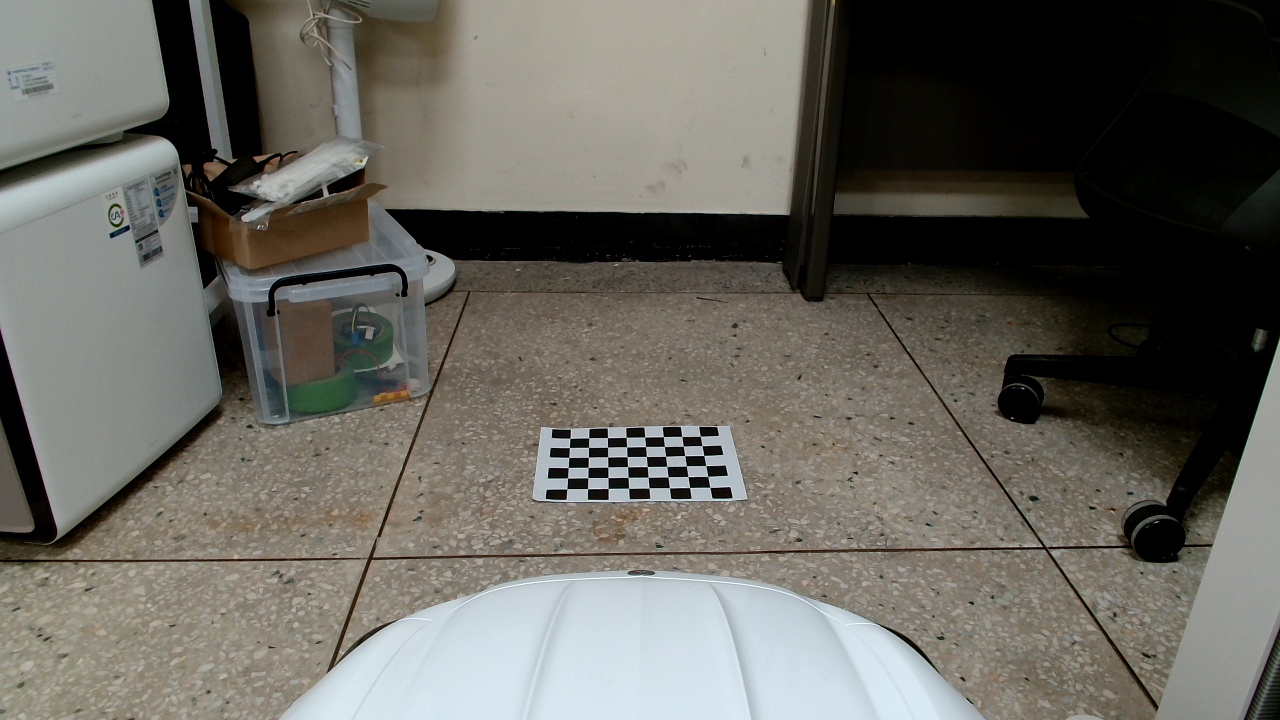
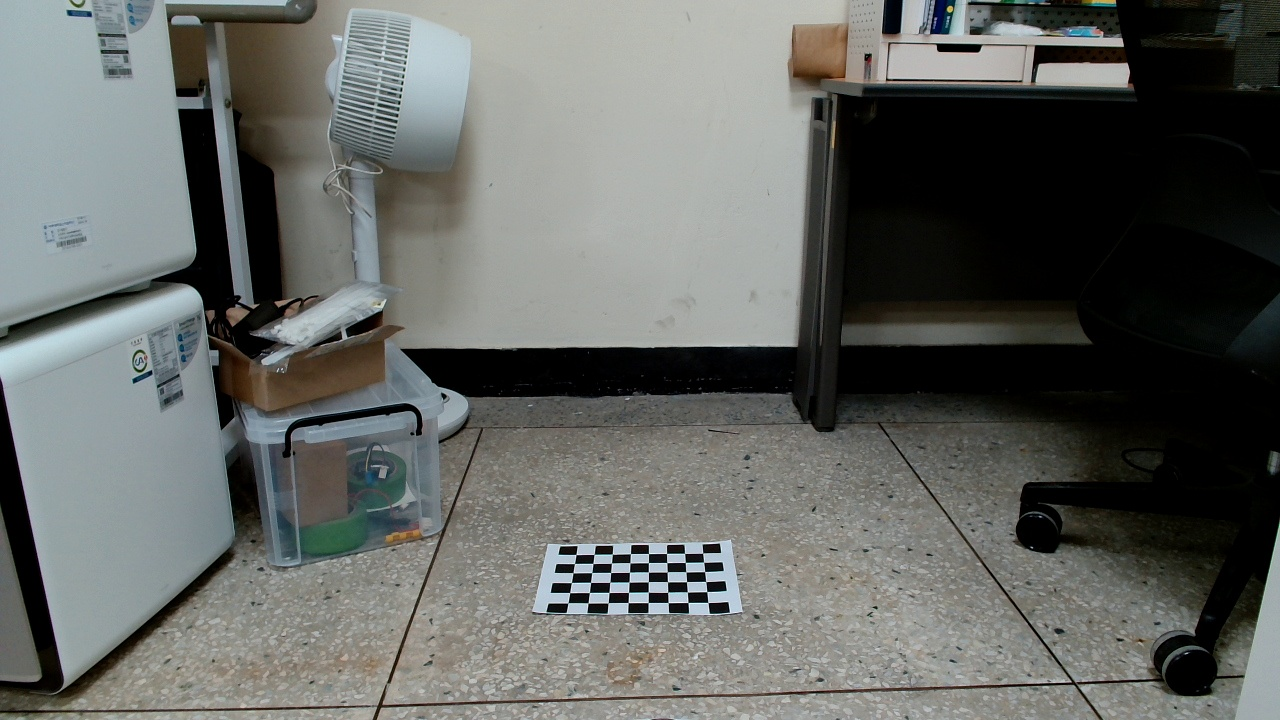
0120

diff --git a/lane_detection/scripts/run2.py b/lane_detection/scripts/run2.py
@@ -1,0 +1,253 @@
+#!/usr/bin/env python3
+import rospy
+import cv2
+import numpy as np
+import math
+from sensor_msgs.msg import Image
+from std_msgs.msg import Int16 
+from cv_bridge import CvBridge, CvBridgeError
+from sklearn.cluster import DBSCAN
+from collections import deque  # [추가] 큐(Queue) 자료구조 사용
+
+# ==========================================
+# 설정 변수
+# ==========================================
+IMAGE_TOPIC = "/usb_cam/image_raw" 
+
+# ==========================================
+# 기존 알고리즘 함수 (유지)
+# ==========================================
+def calculate_midpoint_score(x1, x2, w):
+    hw = w/2
+    midpoint = int((x1 + x2) / 2)
+    return (midpoint - hw) / hw * 100
+
+def calculate_line_score(x1, y1, x2, y2):
+    if x2 - x1 == 0: return 0.0
+    slope = (y2 - y1) / (x2 - x1)
+    abs_slope = abs(slope)
+    if abs_slope < 0.3: return 0.0
+    theta_deg = math.degrees(math.atan(abs_slope))
+    min_theta = math.degrees(math.atan(0.3))
+    max_theta = 90.0
+    if theta_deg >= max_theta: score_magnitude = 0.0
+    elif theta_deg <= min_theta: score_magnitude = 100.0
+    else: score_magnitude = 100 * (max_theta - theta_deg) / (max_theta - min_theta)
+    return score_magnitude if slope > 0 else -score_magnitude
+
+def average_lines(lines):
+    if not lines: return None
+    lines_array = np.array(lines)
+    averaged_line = np.mean(lines_array, axis=0)
+    return averaged_line.astype(int)
+
+# ==========================================
+# Lane Detector Class
+# ==========================================
+class LaneDetector:
+    def __init__(self):
+        rospy.init_node('canny_lane_detector', anonymous=True)
+        
+        output_topic_name = rospy.get_param("~output_topic", "des_steer")
+        self.pub_steer = rospy.Publisher(output_topic_name, Int16, queue_size=10)
+        
+        self.bridge = CvBridge()
+        self.image_sub = rospy.Subscriber(IMAGE_TOPIC, Image, self.image_callback)
+        
+        # [변경] Low Pass Filter 설정을 이동 평균(Moving Average) 방식으로 변경
+        # window_size가 클수록 부드럽지만 반응이 느려짐 (보통 5~10 추천)
+        self.window_size = 15
+        self.steer_history = deque(maxlen=self.window_size)
+        
+        print(f"Waiting for image topic: {IMAGE_TOPIC}...")
+        print(f"Publishing steering to: {output_topic_name} (Method: Moving Average)")
+
+    def filter_by_dbscan(self, lines, img_height):
+        if not lines or len(lines) < 2: return lines
+        
+        features = []
+        valid_indices = []
+        for i, line in enumerate(lines):
+            x1, y1, x2, y2 = line
+            if x2 - x1 == 0: continue
+            slope = (y2 - y1) / (x2 - x1)
+            if abs(slope) < 1e-2: continue
+            angle = math.atan(slope)
+            x_bottom = (img_height - y1) / slope + x1
+            features.append([angle, x_bottom])
+            valid_indices.append(i)
+            
+        if not features: return lines
+
+        features = np.array(features)
+        
+        # DBSCAN 파라미터
+        weight_angle = 100.0  
+        weight_dist  = 0.20   
+        
+        features_scaled = np.column_stack((
+            features[:, 0] * weight_angle, 
+            features[:, 1] * weight_dist   
+        ))
+
+        db = DBSCAN(eps=25.0, min_samples=2).fit(features_scaled)
+        
+        labels = db.labels_
+        unique_labels = set(labels)
+        if -1 in unique_labels: unique_labels.remove(-1)
+        if not unique_labels: return [] 
+
+        best_label = -1
+        max_count = 0
+        for label in unique_labels:
+            count = np.sum(labels == label)
+            if count > max_count:
+                max_count = count
+                best_label = label
+        
+        filtered_lines = []
+        for i, label in enumerate(labels):
+            if label == best_label:
+                filtered_lines.append(lines[valid_indices[i]])
+        return filtered_lines
+
+    def image_callback(self, msg):
+        try:
+            frame = self.bridge.imgmsg_to_cv2(msg, "bgr8")
+        except CvBridgeError as e:
+            rospy.logerr(e)
+            return
+
+        h, w = frame.shape[:2]
+
+        # 1. Pre-processing
+        gray = cv2.cvtColor(frame, cv2.COLOR_BGR2GRAY)
+        blur = cv2.GaussianBlur(gray, (7, 7), 0)
+        edges = cv2.Canny(blur, 100, 200)
+        _, mask = cv2.threshold(gray, 1, 255, cv2.THRESH_BINARY)
+        mask = cv2.erode(mask, np.ones((5, 5), np.uint8), iterations=1)
+        edges = cv2.bitwise_and(edges, edges, mask=mask)
+        edges = cv2.dilate(edges, np.ones((3, 3), np.uint8), iterations=3)
+        mask_eroded = edges 
+
+        # 2. ROI
+        roi_bottom_width = 1.0   
+        roi_top_width = 0.9      
+        roi_height = 0.45        
+
+        cx = w // 2
+        y_top = int(h * (1 - roi_height))
+        y_mid = int(h * (1 - roi_height / 2))
+        x_bottom_half = int(w * roi_bottom_width / 2)
+        x_top_half = int(w * roi_top_width / 2)
+
+        roi_verts = np.array([[
+            (cx - x_bottom_half, h),
+            (cx - x_top_half, y_top),
+            (cx + x_top_half, y_top),
+            (cx + x_bottom_half, h)
+        ]], dtype=np.int32)
+
+        roi_mask_img = np.zeros_like(mask_eroded)
+        cv2.fillPoly(roi_mask_img, roi_verts, 255)
+        mask_roi_applied = cv2.bitwise_and(mask_eroded, roi_mask_img)
+
+        # 3. Hough Transform
+        lines = cv2.HoughLinesP(mask_roi_applied, rho=1, theta=np.pi/180, threshold=50, minLineLength=50, maxLineGap=50)
+        mask_bgr = cv2.cvtColor(mask_roi_applied, cv2.COLOR_GRAY2BGR)
+        cv2.polylines(mask_bgr, roi_verts, isClosed=True, color=(0, 255, 0), thickness=2)
+
+        # 4. Filter & Score
+        filtering_slope = 0.3 
+        right_lines, left_lines = [], []
+
+        if lines is not None:
+            for line in lines:
+                x1, y1, x2, y2 = line[0]
+                dx, dy = x2 - x1, y2 - y1
+                if dx == 0: continue 
+                slope = dy / dx
+                if abs(slope) <= filtering_slope: continue
+
+                ls = calculate_line_score(x1, y1, x2, y2)
+                lm = calculate_midpoint_score(x1, y1, w)
+
+                if ls + lm <= 0: left_lines.append([x1, y1, x2, y2])
+                else: right_lines.append([x1, y1, x2, y2])
+        
+        left_lines = self.filter_by_dbscan(left_lines, h)
+        right_lines = self.filter_by_dbscan(right_lines, h)
+
+        left_result = average_lines(left_lines)
+        right_result = average_lines(right_lines)
+
+        left_mid_point, right_mid_point = 0, w
+
+        # 5. Visualization & Compute
+        if left_result is not None:
+            lx1, ly1, lx2, ly2 = left_result
+            left_mid_point = int((lx1 + lx2) / 2)
+            cv2.circle(mask_bgr, (left_mid_point, y_mid), 20, (0, 0, 255), -1)
+            cv2.line(mask_bgr, (lx1, ly1), (lx2, ly2), (0, 0, 255), 3)
+        
+        if right_result is not None:
+            lx1, ly1, lx2, ly2 = right_result
+            right_mid_point = int((lx1 + lx2) / 2)
+            cv2.circle(mask_bgr, (right_mid_point, y_mid), 20, (255, 0, 0), -1)
+            cv2.line(mask_bgr, (lx1, ly1), (lx2, ly2), (255, 0, 0), 3)
+        
+        final_midpoint = int((left_mid_point + right_mid_point) / 2)
+
+        # --------------------------------------------------------
+        # [변경됨] 단순 이동 평균(SMA) 필터 적용
+        # --------------------------------------------------------
+        image_center_x = w // 2
+        # raw_offset = final_midpoint - image_center_x
+        
+        # 큐에 현재 데이터 추가 (꽉 차면 가장 오래된 것 자동 삭제)
+        self.steer_history.append(final_midpoint)
+        
+        # 큐에 있는 값들의 평균 계산
+        if len(self.steer_history) > 0:
+            filtered_midpoint = int(sum(self.steer_history) / len(self.steer_history))
+        else:
+            filtered_midpoint = final_midpoint 
+        
+        msg_steer = Int16()
+        msg_steer.data = filtered_midpoint - image_center_x
+        self.pub_steer.publish(msg_steer)
+        # --------------------------------------------------------
+
+        cv2.circle(mask_bgr, (filtered_midpoint, y_mid), 20, (255, 255, 0), -1)
+        cv2.putText(mask_bgr, f"Offset: {msg_steer.data}", (filtered_midpoint - 80, y_mid - 40), 
+                    cv2.FONT_HERSHEY_SIMPLEX, 0.8, (255, 255, 255), 2)
+        
+        for line in right_lines:
+            x1, y1, x2 ,y2 = line
+            cv2.line(mask_bgr, (x1, y1), (x2, y2), (255, 0, 0), 1)
+        for line in left_lines:
+            x1, y1, x2 ,y2 = line
+            cv2.line(mask_bgr, (x1, y1), (x2, y2), (0, 0, 255), 1)
+
+        combined = np.hstack((frame, mask_bgr))
+        target_width = 1200
+        scale = target_width / combined.shape[1]
+        new_w = int(combined.shape[1] * scale)
+        new_h = int(combined.shape[0] * scale)
+        combined_small = cv2.resize(combined, (new_w, new_h))
+        
+        cv2.imshow('Lane Detector', combined_small)
+        cv2.waitKey(1)
+
+    def clean_up(self):
+        cv2.destroyAllWindows()
+        print("Clean up done.")
+
+if __name__ == '__main__':
+    ld = LaneDetector()
+    try:
+        rospy.spin()
+    except KeyboardInterrupt:
+        pass
+    finally:
+        ld.clean_up()

diff --git a/lane_detection/scripts/bev/getH.py b/lane_detection/scripts/bev/getH.py
@@ -10,7 +10,7 @@ SAVE_SIZE_PATH = os.path.join(current_dir, 'bev_size.npy')
 
 # --- [설정] 사용자 환경에 맞게 수정하세요 ---
 CHECKERBOARD = (8, 6)  # 체커보드 코너 개수
-TOP_CROP_RATIO = 0.45  # 상단 몇 %를 날릴 것인지 (0.45 = 상단 45% 잘라냄)
+TOP_CROP_RATIO = 0.50  # 상단 몇 %를 날릴 것인지 (0.45 = 상단 45% 잘라냄)
 SCALE = 10            # BEV 변환 시 격자 하나의 픽셀 크기 (해상도)
 # ----------------------------------------
 
